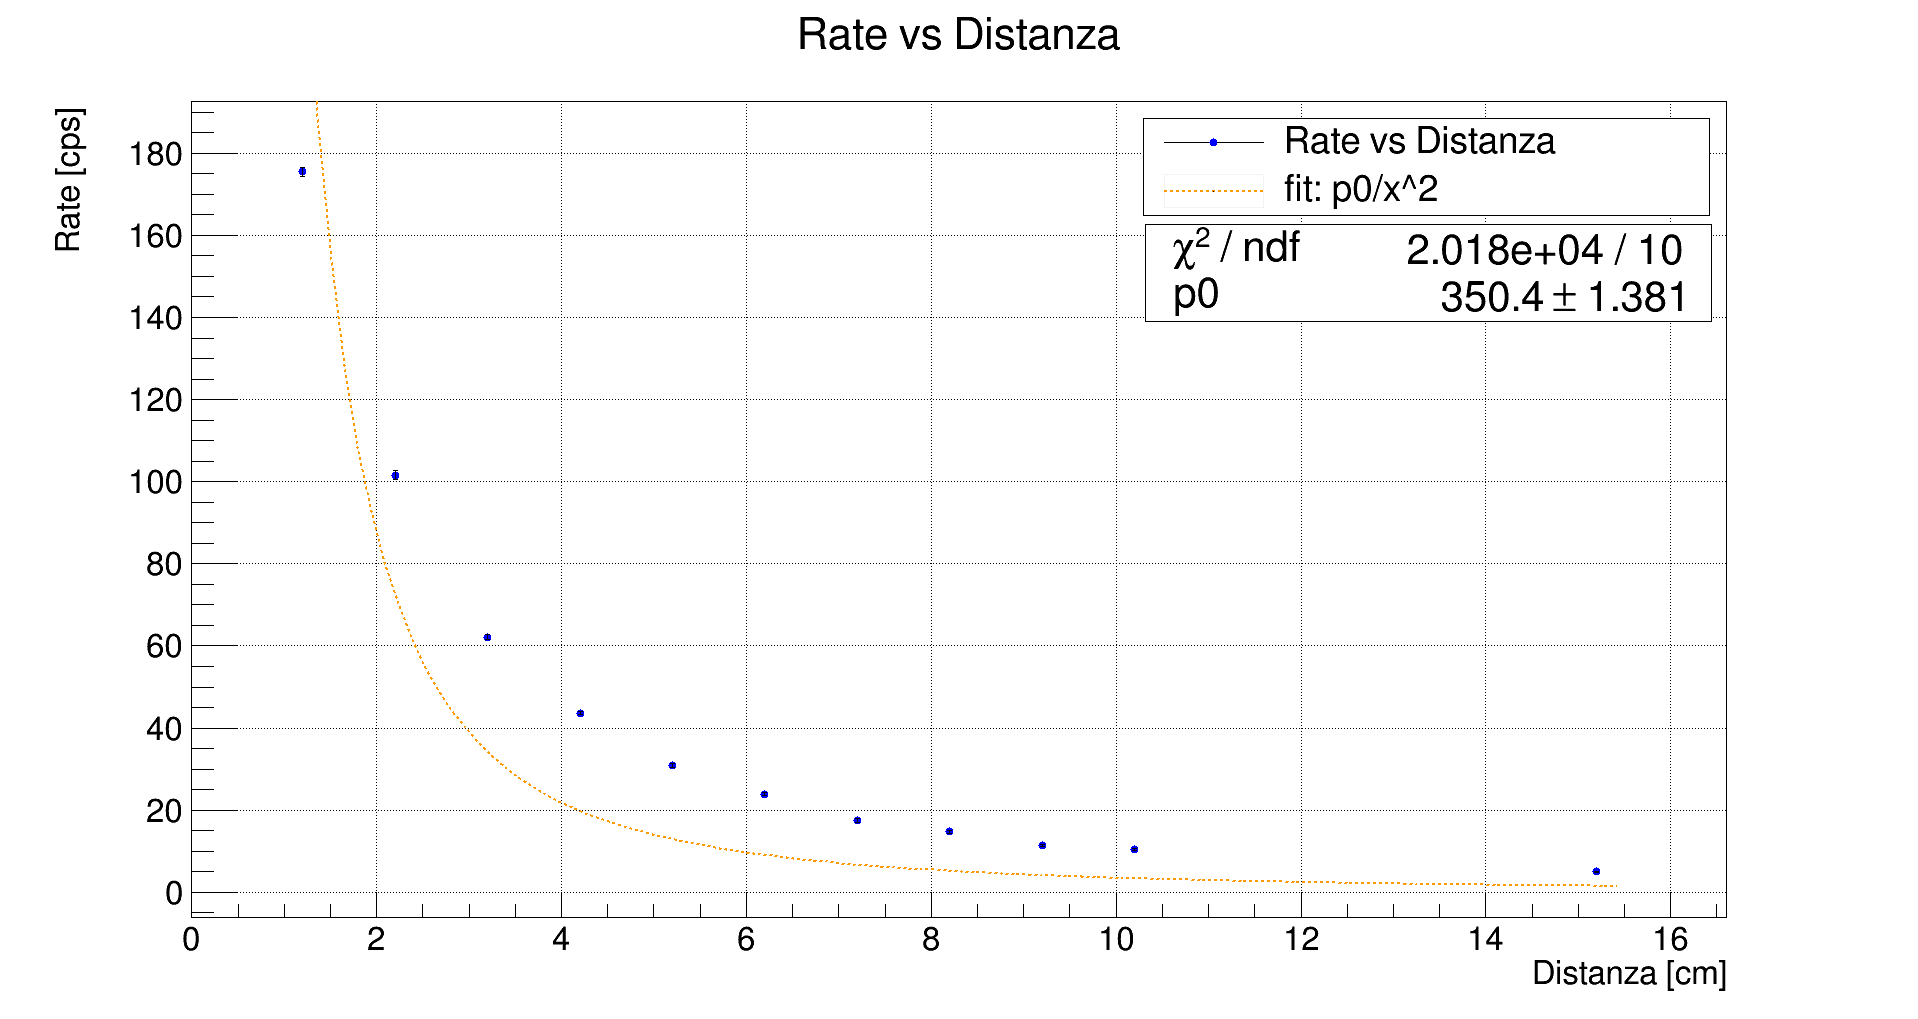
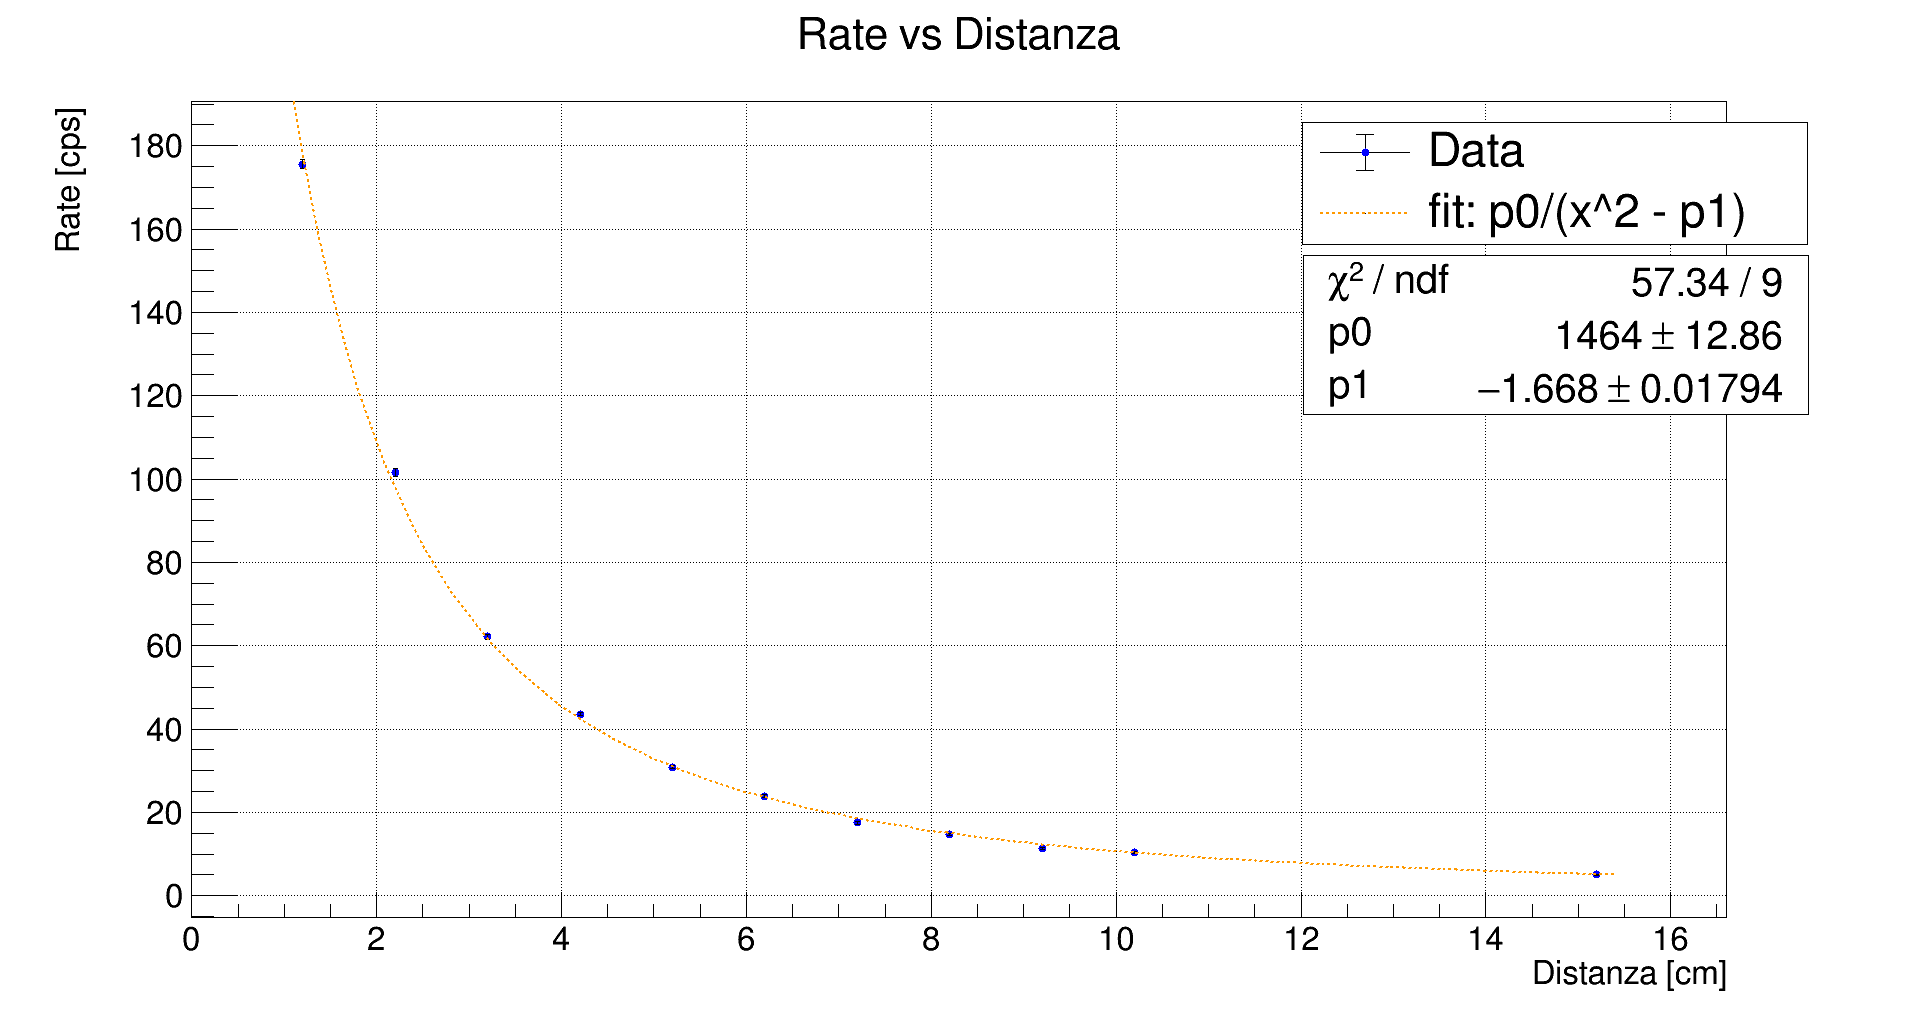
update

diff --git a/spettroscopia/fotodiodo/analisi/code/DistanceCalculator.cc b/spettroscopia/fotodiodo/analisi/code/DistanceCalculator.cc
@@ -33,6 +33,8 @@ using namespace std;
 vector<double> Distanza{ 1.2, 2.2, 3.2, 4.2, 5.2, 6.2, 7.2, 8.2, 9.2, 10.2, 15.2 }; //cm
 vector<double> Tempo{ 147.14, 89.50, 206.78, 345.23, 193.29, 199.49, 114.23, 140.36, 235.88, 235.88, 342.36 }; //s
 vector<double> Counts{ 25831, 9092, 12848, 15055, 5973, 4765, 1999, 2063, 2695, 2473, 1723 }; //no udm
+/* per cambiamenti nel fit punti da modificare */
+// . . . . 
 
 vector<double> ErrCounts; 
 vector<double> Rate; //cps
@@ -45,7 +47,7 @@ void RateCalculator();
 void ErrorRateCalculator();
 
 double FunctionToFit(double* x, double* par){
-  double result = par[0] / pow(*x,2);
+  double result = par[0] / pow((*x-par[1]),2);
   return result;
 }
 
@@ -76,16 +78,20 @@ int main( int argN, char* argL[] ){
                 graph -> SetName("Data");
   
   //fit di tipo a/x^2
-  TF1* fit = new TF1("fit: p0/x^2", FunctionToFit, 1, 15.5, 1);  
+  TF1* fit = new TF1("fit: p0/(x^2 - p1)", FunctionToFit, 1, 15.5, 2);  
        fit -> SetLineColor(kOrange-3);
        fit -> SetLineStyle(2); //dashed line for the fit line
-       fit -> SetName("fit: p0/x^2");
   
   graph -> Fit(fit, "RV");
   
   graph -> Draw("AP");
   fit -> Draw("same");
-  can -> BuildLegend();
+  
+  auto legend = new TLegend();
+  
+  legend -> AddEntry( graph, "Data", "lpe");
+  legend -> AddEntry( fit, "fit: p0/(x^2 - p1)", "lp");
+  legend -> Draw();
 
   AppWTF -> Run(kTRUE);
 

diff --git a/spettroscopia/fotodiodo/analisi/risultati/distanza/risultati_fit.md b/spettroscopia/fotodiodo/analisi/risultati/distanza/risultati_fit.md
@@ -9,6 +9,7 @@ Warning in <ROOT::Math::FitConfig::CreateMinimizer>: Could not create the Minuit
  PARAMETER DEFINITIONS:
     NO.   NAME         VALUE      STEP SIZE      LIMITS
      1 p0           0.00000e+00  3.00000e-01     no limits
+     2 p1           0.00000e+00  3.00000e-01     no limits
  **********
  **    3 **SET ERR           1
  **********
@@ -20,41 +21,52 @@ Warning in <ROOT::Math::FitConfig::CreateMinimizer>: Could not create the Minuit
  **********
  NOW USING STRATEGY  1: TRY TO BALANCE SPEED AGAINST RELIABILITY
  **********
- **    6 **MIGRAD        1105        0.01
+ **    6 **MIGRAD        1220        0.01
  **********
  FIRST CALL TO USER FUNCTION AT NEW START POINT, WITH IFLAG=4.
  START MIGRAD MINIMIZATION.  STRATEGY  1.  CONVERGENCE WHEN EDM .LT. 1.00e-05
- FCN=84517 FROM MIGRAD    STATUS=INITIATE        4 CALLS           5 TOTAL
+ FCN=84517 FROM MIGRAD    STATUS=INITIATE       53 CALLS          54 TOTAL
                      EDM= unknown      STRATEGY= 1      NO ERROR MATRIX       
   EXT PARAMETER               CURRENT GUESS       STEP         FIRST   
   NO.   NAME      VALUE            ERROR          SIZE      DERIVATIVE 
-   1  p0           0.00000e+00   3.00000e-01   3.00000e-01  -3.67203e+02
+   1  p0           0.00000e+00   3.00000e-01   0.00000e+00  -3.67203e+02
+   2  p1           0.00000e+00   3.00000e-01   0.00000e+00   0.00000e+00
 NO ERROR MATRIX       
- FCN=20182.4 FROM MIGRAD    STATUS=PROGRESS        7 CALLS           8 TOTAL
-                     EDM=4.02505e-14    STRATEGY= 1      NO ERROR MATRIX       
+ FCN=20182.4 FROM MIGRAD    STATUS=PROGRESS       62 CALLS          63 TOTAL
+                     EDM=4.50294e+10    STRATEGY= 1      NO ERROR MATRIX       
   EXT PARAMETER               CURRENT GUESS       STEP         FIRST   
   NO.   NAME      VALUE            ERROR          SIZE      DERIVATIVE 
-   1  p0           3.50404e+02   3.00000e-01   3.50404e+02  -1.45224e-07
+   1  p0           3.50404e+02   3.00000e-01   3.50404e+02  -2.48481e-07
+   2  p1           0.00000e+00   3.00000e-01  -0.00000e+00   1.50049e+05
  MIGRAD MINIMIZATION HAS CONVERGED.
  MIGRAD WILL VERIFY CONVERGENCE AND ERROR MATRIX.
    START COVARIANCE MATRIX CALCULATION.
  EIGENVALUES OF SECOND-DERIVATIVE MATRIX:
-         1.0000e+00
+         7.9929e-02  1.9201e+00
  COVARIANCE MATRIX CALCULATED SUCCESSFULLY
- FCN=20182.4 FROM MIGRAD    STATUS=CONVERGED      12 CALLS          13 TOTAL
-                     EDM=2.00937e-14    STRATEGY= 1      ERROR MATRIX ACCURATE 
+ FCN=57.3393 FROM MIGRAD    STATUS=CONVERGED     122 CALLS         123 TOTAL
+                     EDM=9.35261e-09    STRATEGY= 1      ERROR MATRIX ACCURATE 
   EXT PARAMETER                                   STEP         FIRST   
   NO.   NAME      VALUE            ERROR          SIZE      DERIVATIVE 
-   1  p0           3.50404e+02   1.38149e+00   9.58317e-02  -1.45110e-07
- EXTERNAL ERROR MATRIX.    NDIM=  25    NPAR=  1    ERR DEF=1
-  1.909e+00 
+   1  p0           1.46359e+03   1.28554e+01   1.87806e-02  -2.34129e-05
+   2  p1          -1.66817e+00   1.79424e-02   2.62129e-05  -1.92964e-02
+ EXTERNAL ERROR MATRIX.    NDIM=  25    NPAR=  2    ERR DEF=1
+  1.653e+02 -2.122e-01 
+ -2.122e-01  3.219e-04 
+ PARAMETER  CORRELATION COEFFICIENTS  
+       NO.  GLOBAL      1      2
+        1  0.92007   1.000 -0.920
+        2  0.92007  -0.920  1.000
 Info in <TMinuitMinimizer::Minimize>: Finished to run MIGRAD - status 0
- EXTERNAL ERROR MATRIX.    NDIM=   1    NPAR=  1    ERR DEF=1
-  1.909e+00 
- FCN=20182.4 FROM MIGRAD    STATUS=CONVERGED      12 CALLS          13 TOTAL
-                     EDM=2.00937e-14    STRATEGY= 1      ERROR MATRIX ACCURATE 
+ EXTERNAL ERROR MATRIX.    NDIM=   2    NPAR=  2    ERR DEF=1
+  1.653e+02 -2.122e-01 
+ -2.122e-01  3.219e-04 
+ FCN=57.3393 FROM MIGRAD    STATUS=CONVERGED     122 CALLS         123 TOTAL
+                     EDM=9.35261e-09    STRATEGY= 1      ERROR MATRIX ACCURATE 
   EXT PARAMETER                  PARABOLIC         MINOS ERRORS        
   NO.   NAME      VALUE            ERROR      NEGATIVE      POSITIVE   
-   1  p0           3.50404e+02   1.38149e+00                            
+   1  p0           1.46359e+03   1.28554e+01                            
+   2  p1          -1.66817e+00   1.79424e-02                            
+
 
 ```
